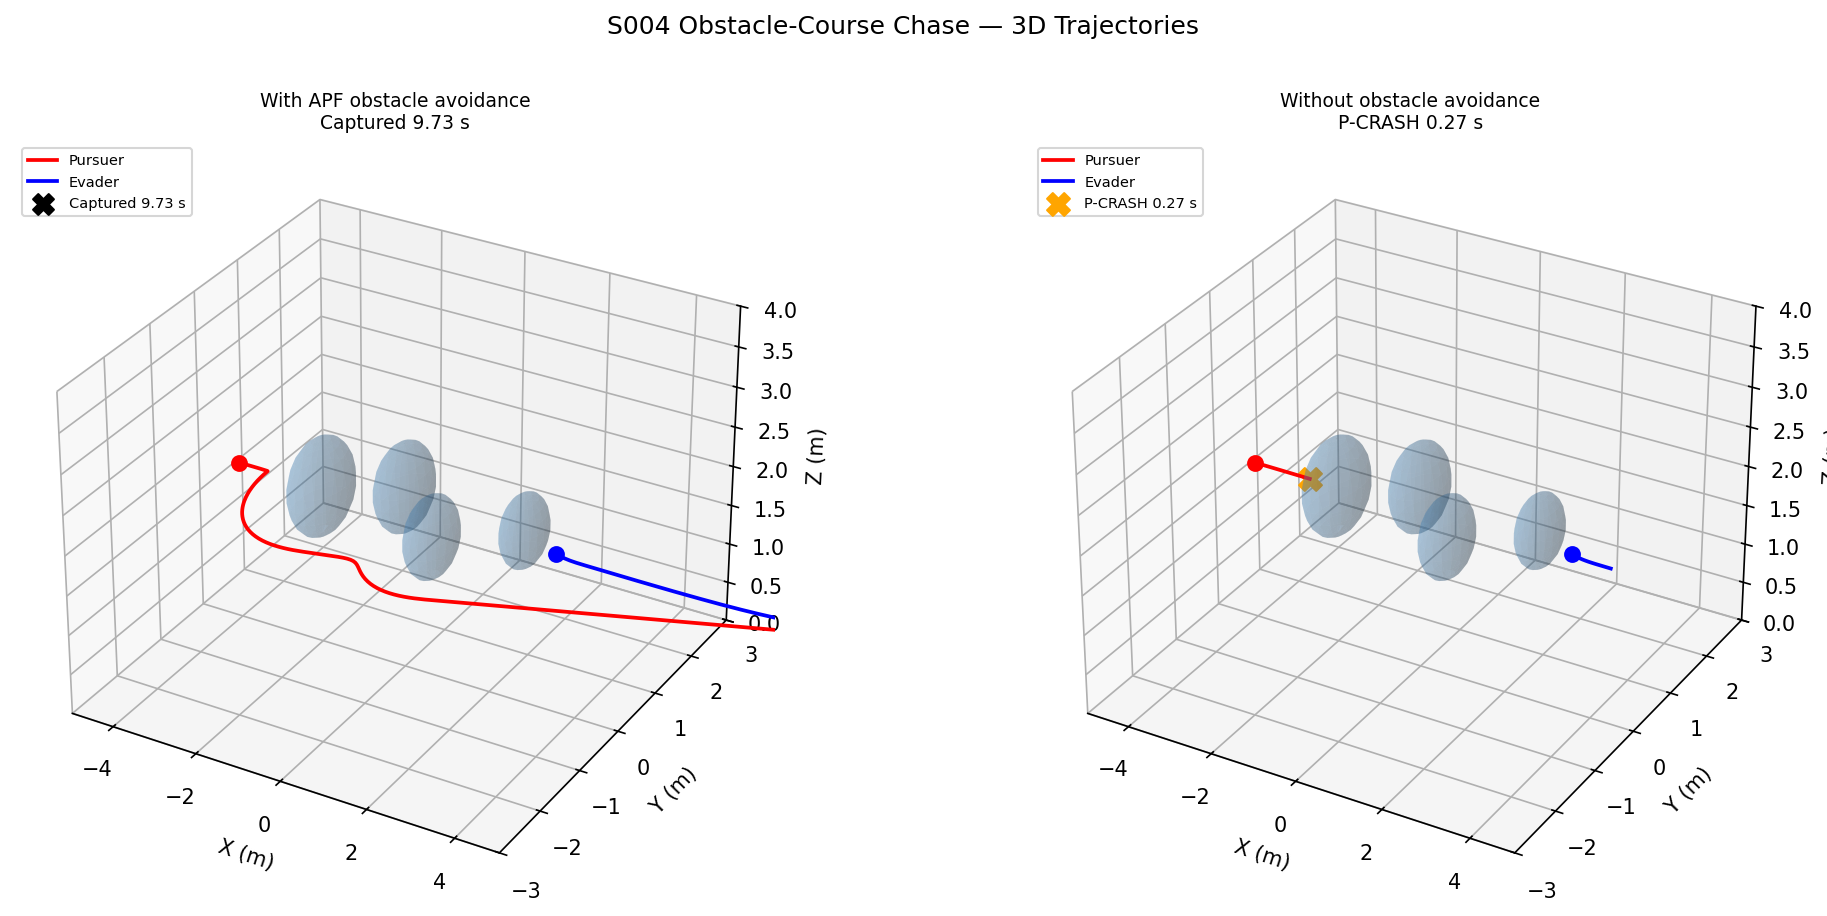
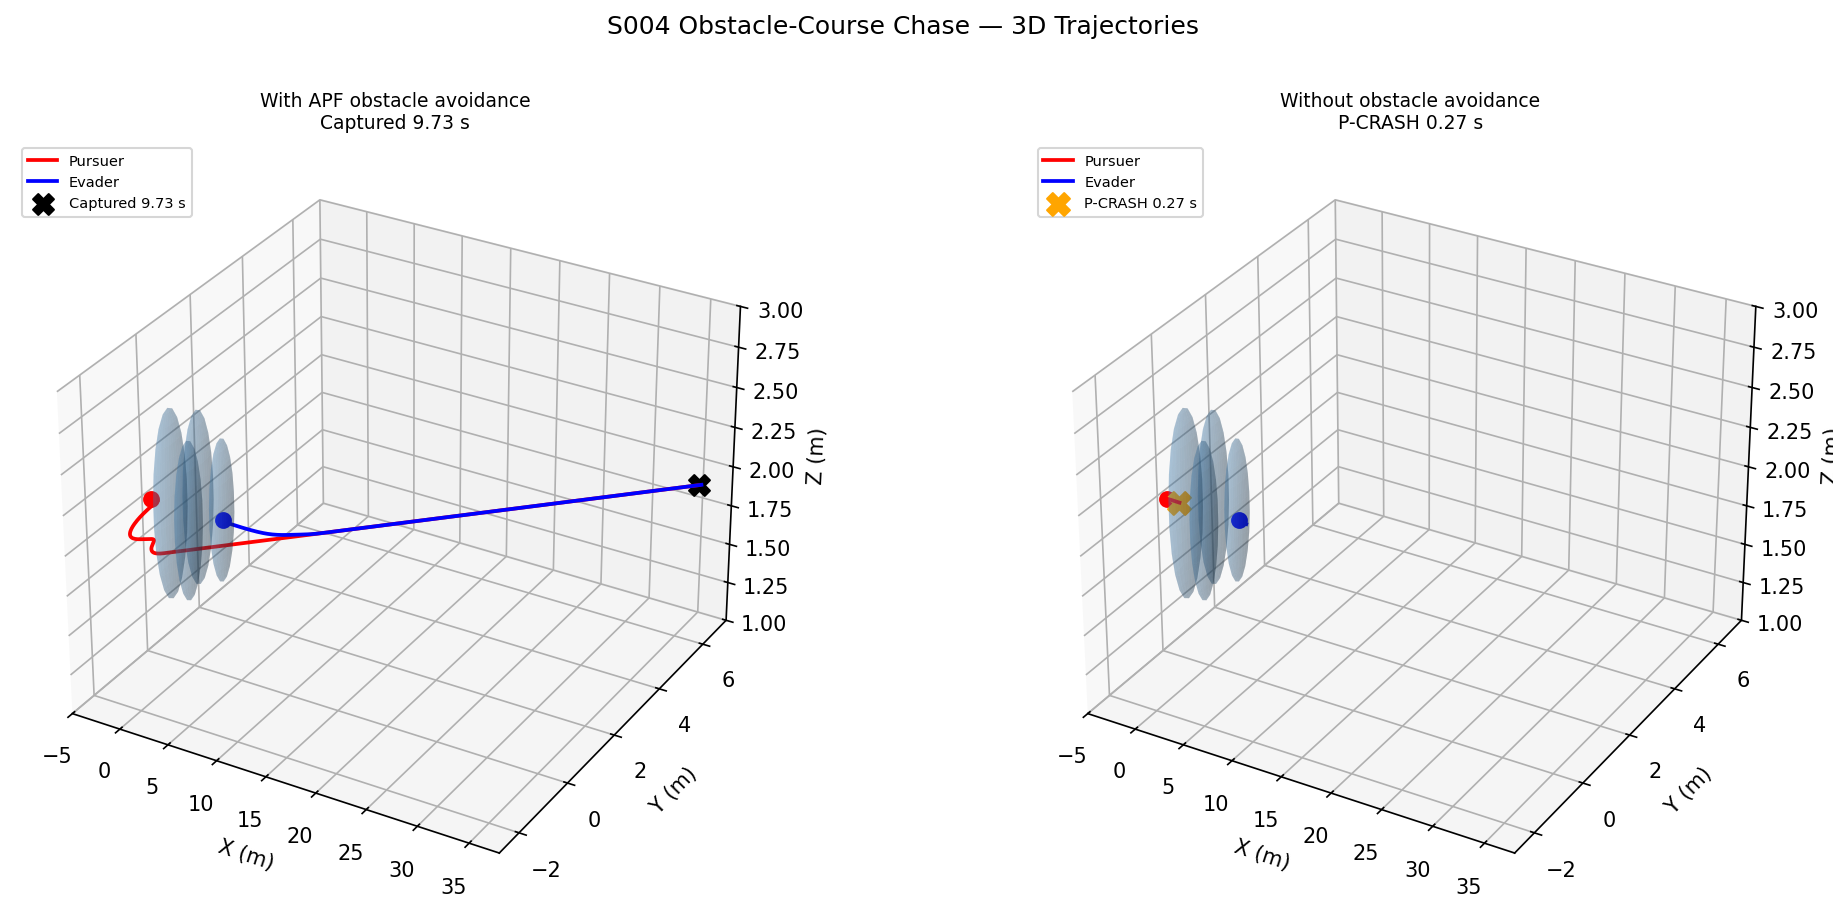
S002: 2x2 subplot animation; S004: dynamic axis limits for full path visibility

diff --git a/src/pursuit/s002_evasive_maneuver.py b/src/pursuit/s002_evasive_maneuver.py
@@ -209,52 +209,69 @@ def plot_distance_time(results, out_dir):
 
 
 def save_animation(results, out_dir):
-    """Animate the Spiral strategy (pursuer red, evader blue), ~12 fps."""
-    # Pick the Spiral case as it has the most interesting trajectory
-    name, p_traj, e_traj, captured, cap_time = next(
-        r for r in results if r[0] == 'Spiral'
+    """2×2 subplot animation — all 4 strategies simultaneously, ~12 fps."""
+    step = 4
+    n_frames = min(
+        min(len(p[::step]), len(e[::step]))
+        for _, p, e, _, _ in results
     )
 
-    step = 4
-    p_frames = p_traj[::step]
-    e_frames = e_traj[::step]
-    n_frames = min(len(p_frames), len(e_frames))
-
-    all_pts = np.vstack([p_traj, e_traj])
+    # Shared axis limits across all trajectories
+    all_pts = np.vstack([
+        np.vstack([p, e]) for _, p, e, _, _ in results
+    ])
     margin = 0.5
     lo = all_pts.min(axis=0) - margin
     hi = all_pts.max(axis=0) + margin
 
-    fig = plt.figure(figsize=(7, 6))
-    ax = fig.add_subplot(111, projection='3d')
-    ax.set_xlim(lo[0], hi[0])
-    ax.set_ylim(lo[1], hi[1])
-    ax.set_zlim(lo[2], hi[2])
-    ax.set_xlabel('X (m)')
-    ax.set_ylabel('Y (m)')
-    ax.set_zlabel('Z (m)')
+    fig = plt.figure(figsize=(12, 10))
+    axes, trails_p, trails_e, dots_p, dots_e = [], [], [], [], []
+    frame_data = []
 
-    ax.scatter(*p_traj[0], color='red',  s=50, marker='o', alpha=0.4, label='P start')
-    ax.scatter(*e_traj[0], color='blue', s=50, marker='o', alpha=0.4, label='E start')
-    ax.legend(loc='upper left')
+    positions = [(0, 0), (0, 1), (1, 0), (1, 1)]
+    for idx, (name, p_traj, e_traj, captured, cap_time) in enumerate(results):
+        row, col = positions[idx]
+        ax = fig.add_subplot(2, 2, idx + 1, projection='3d')
+        ax.set_xlim(lo[0], hi[0])
+        ax.set_ylim(lo[1], hi[1])
+        ax.set_zlim(lo[2], hi[2])
+        ax.set_xlabel('X (m)', fontsize=7)
+        ax.set_ylabel('Y (m)', fontsize=7)
+        ax.set_zlabel('Z (m)', fontsize=7)
+        cap_str = f'cap {cap_time:.2f}s' if captured else 'escaped'
+        ax.set_title(f'{name} ({cap_str})', fontsize=9)
+        ax.scatter(*p_traj[0], color='red',  s=30, marker='o', alpha=0.4)
+        ax.scatter(*e_traj[0], color='blue', s=30, marker='o', alpha=0.4)
 
-    p_trail, = ax.plot([], [], [], color='red',  linewidth=1.2, alpha=0.6)
-    e_trail, = ax.plot([], [], [], color='blue', linewidth=1.2, alpha=0.6)
-    p_dot = ax.scatter([], [], [], color='red',  s=80, marker='^', zorder=6)
-    e_dot = ax.scatter([], [], [], color='blue', s=80, marker='s', zorder=6)
+        tp, = ax.plot([], [], [], color='red',  linewidth=1.0, alpha=0.6)
+        te, = ax.plot([], [], [], color='blue', linewidth=1.0, alpha=0.6)
+        dp = ax.scatter([], [], [], color='red',  s=60, marker='^', zorder=6)
+        de = ax.scatter([], [], [], color='blue', s=60, marker='s', zorder=6)
+
+        axes.append(ax)
+        trails_p.append(tp); trails_e.append(te)
+        dots_p.append(dp);   dots_e.append(de)
+        frame_data.append((p_traj[::step], e_traj[::step]))
+
+    fig.suptitle('S002 Evasive Maneuver — All Strategies', fontsize=12)
 
     def update(i):
-        px, py, pz = p_frames[:i+1, 0], p_frames[:i+1, 1], p_frames[:i+1, 2]
-        ex, ey, ez = e_frames[:i+1, 0], e_frames[:i+1, 1], e_frames[:i+1, 2]
-        p_trail.set_data(px, py); p_trail.set_3d_properties(pz)
-        e_trail.set_data(ex, ey); e_trail.set_3d_properties(ez)
-        p_dot._offsets3d = ([float(px[-1])], [float(py[-1])], [float(pz[-1])])
-        e_dot._offsets3d = ([float(ex[-1])], [float(ey[-1])], [float(ez[-1])])
+        artists = []
+        for k, (pf, ef) in enumerate(frame_data):
+            ni = min(i + 1, len(pf), len(ef))
+            px, py, pz = pf[:ni, 0], pf[:ni, 1], pf[:ni, 2]
+            ex, ey, ez = ef[:ni, 0], ef[:ni, 1], ef[:ni, 2]
+            trails_p[k].set_data(px, py); trails_p[k].set_3d_properties(pz)
+            trails_e[k].set_data(ex, ey); trails_e[k].set_3d_properties(ez)
+            dots_p[k]._offsets3d = ([float(px[-1])], [float(py[-1])], [float(pz[-1])])
+            dots_e[k]._offsets3d = ([float(ex[-1])], [float(ey[-1])], [float(ez[-1])])
+            artists += [trails_p[k], trails_e[k], dots_p[k], dots_e[k]]
         t = i * step * DT
-        ax.set_title(f'S002 Evasive Maneuver (Spiral)  t={t:.2f}s')
-        return p_trail, e_trail, p_dot, e_dot
+        fig.suptitle(f'S002 Evasive Maneuver — All Strategies  t={t:.2f}s', fontsize=12)
+        return artists
 
     ani = animation.FuncAnimation(fig, update, frames=n_frames, interval=83, blit=False)
+    plt.tight_layout()
 
     os.makedirs(out_dir, exist_ok=True)
     path = os.path.join(out_dir, 'animation.gif')

diff --git a/src/pursuit/s004_obstacle_chase.py b/src/pursuit/s004_obstacle_chase.py
@@ -163,8 +163,19 @@ def _draw_spheres(ax, obstacles, color='steelblue', alpha=0.25):
 
 # ── Plots ──────────────────────────────────────────────────
 
+def _axis_limits(results, margin=1.0):
+    """Compute shared axis limits from all trajectories."""
+    all_pts = np.vstack([
+        np.vstack([res[0], res[1]]) for res in results
+    ])
+    lo = all_pts.min(axis=0) - margin
+    hi = all_pts.max(axis=0) + margin
+    return lo, hi
+
+
 def plot_trajectories_3d(results, out_dir):
     labels = ['With APF obstacle avoidance', 'Without obstacle avoidance']
+    lo, hi = _axis_limits(results)
     fig = plt.figure(figsize=(14, 6))
 
     for i, (label, res) in enumerate(zip(labels, results)):
@@ -192,7 +203,7 @@ def plot_trajectories_3d(results, out_dir):
                        label=f'E-CRASH {e_crash_t:.2f} s')
 
         ax.set_xlabel('X (m)'); ax.set_ylabel('Y (m)'); ax.set_zlabel('Z (m)')
-        ax.set_xlim(-5, 5); ax.set_ylim(-3, 3); ax.set_zlim(0, 4)
+        ax.set_xlim(lo[0], hi[0]); ax.set_ylim(lo[1], hi[1]); ax.set_zlim(max(0, lo[2]), hi[2])
         status = (f'Captured {cap_t:.2f} s' if captured
                   else f'P-CRASH {p_crash_t:.2f} s' if p_crashed
                   else f'E-CRASH {e_crash_t:.2f} s' if e_crashed
@@ -277,18 +288,20 @@ def save_animation(results, out_dir):
     (p_traj, e_traj, captured, cap_t,
      p_crashed, p_crash_t, e_crashed, e_crash_t, _) = results[0]  # APF case
 
+    lo, hi = _axis_limits(results)
+
     step = 4
     p_frames = p_traj[::step]
     e_frames = e_traj[::step]
     n_frames = min(len(p_frames), len(e_frames))
 
-    fig = plt.figure(figsize=(7, 6))
+    fig = plt.figure(figsize=(8, 7))
     ax = fig.add_subplot(111, projection='3d')
     _draw_spheres(ax, OBSTACLES)
 
-    ax.set_xlim(-5, 5)
-    ax.set_ylim(-3, 3)
-    ax.set_zlim(0, 4)
+    ax.set_xlim(lo[0], hi[0])
+    ax.set_ylim(lo[1], hi[1])
+    ax.set_zlim(max(0, lo[2]), hi[2])
     ax.set_xlabel('X (m)')
     ax.set_ylabel('Y (m)')
     ax.set_zlabel('Z (m)')
